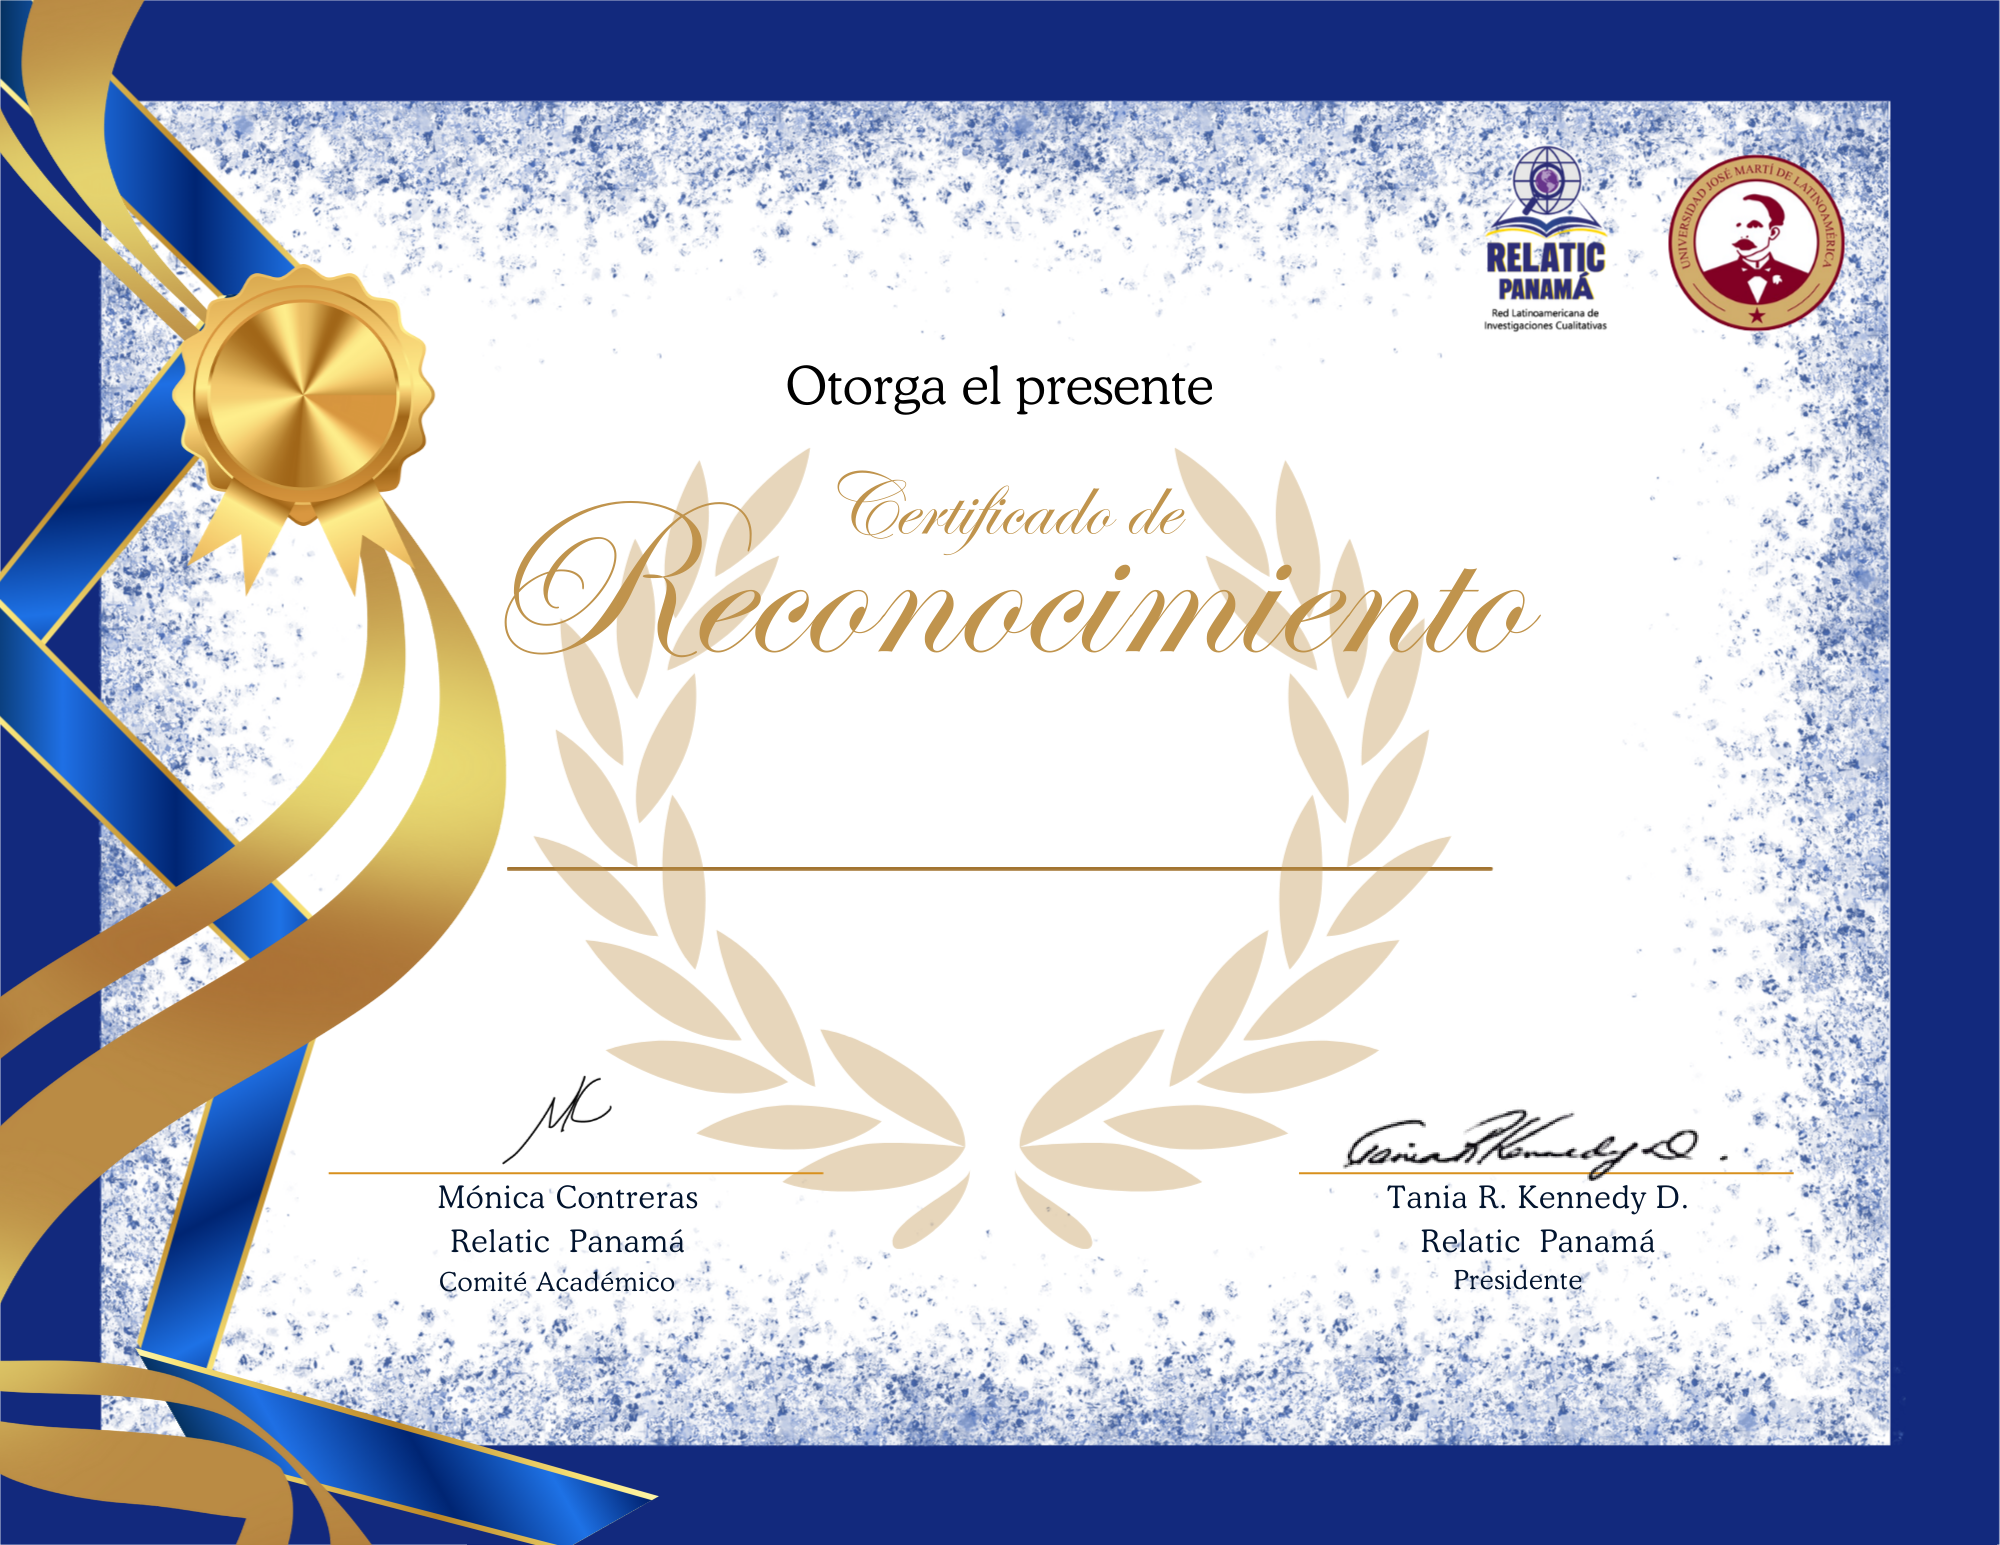
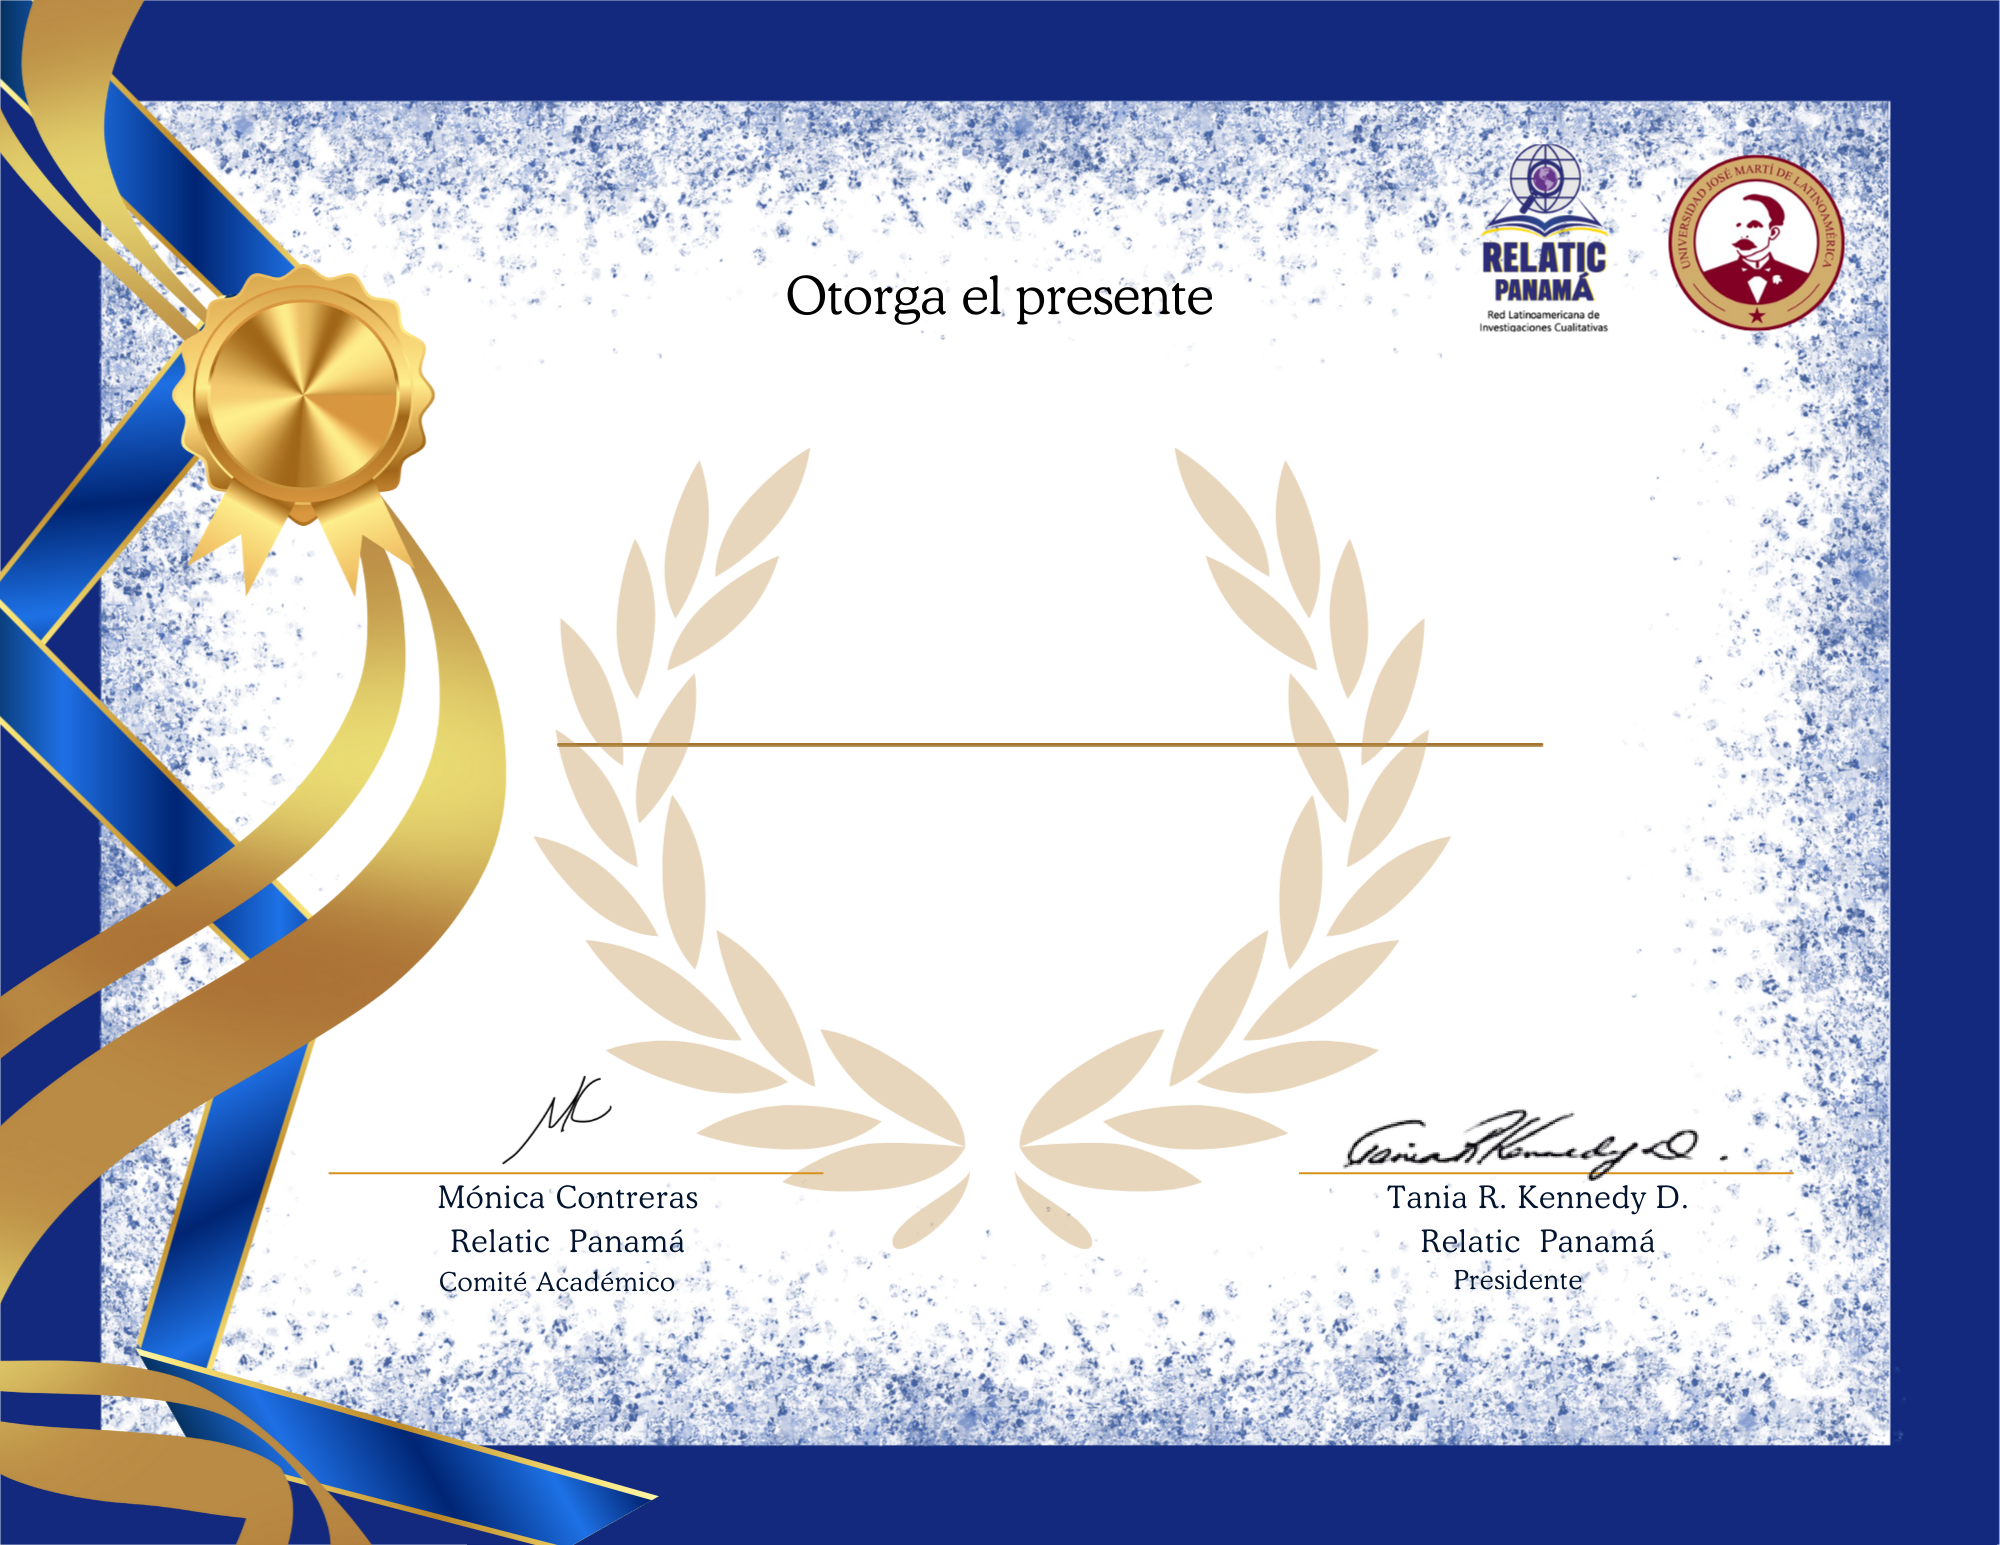
- 2025-09-03

diff --git a/src/components/GenerateCertificates.jsx b/src/components/GenerateCertificates.jsx
@@ -7,7 +7,8 @@ const GenerateCertificates = () => {
   const [formData, setFormData] = useState({
     nombre_estudiante: '',
     id_estudiante: '',
-    nombre_curso: '',
+    concepto: '',
+    tipo_documento: '',
     horas_academicas: '',
     creditos: '',
     fecha_inicio: '',
@@ -19,47 +20,70 @@ const GenerateCertificates = () => {
   const [submitStatus, setSubmitStatus] = useState(null);
   const certificateRef = useRef(null);
 
-  // ✅ Posiciones con fuentes responsivas
+  // ✅ Posiciones de texto ajustadas para una mejor legibilidad y orden
   const textPositions = {
+    // La primera frase completa ahora se compone de dos partes
+    tipo_documento: {
+      top: '32%',
+      left: '50%',
+      transform: 'translateX(-50%)',
+      fontSize: 'clamp(0.9rem, 1.8vw, 1.3rem)',
+      color: '#4a5568',
+      fontWeight: '500'
+    },
+    // El nombre del estudiante ahora tiene más énfasis visual
     nombre_estudiante: { 
-      top: '42%', 
+      top: '36%', 
       left: '50%', 
       transform: 'translateX(-50%)', 
-      fontSize: 'clamp(1rem, 2.5vw, 2rem)', 
+      fontSize: 'clamp(1.2rem, 3vw, 2.5rem)', 
       fontWeight: 'bold', 
       color: '#1a365d' 
     },
+    // ID del estudiante
     id_estudiante: { 
-      top: '50%', 
+      top: '44%', // Ajustado para seguir al nombre y evitar la linea
       left: '50%', 
       transform: 'translateX(-50%)', 
       fontSize: 'clamp(0.8rem, 1.5vw, 1.1rem)', 
       color: '#4a5568' 
     },
-    nombre_curso: { 
-      top: '58%', 
+    // Etiqueta del concepto
+    concepto_label: {
+      top: '52%', // Ajustado
+      left: '50%',
+      transform: 'translateX(-50%)',
+      fontSize: 'clamp(0.9rem, 1.8vw, 1.3rem)',
+      color: '#4a5568',
+      fontWeight: '500'
+    },
+    // Valor del concepto, con más peso visual
+    concepto_value: { 
+      top: '57%', // Ajustado
       left: '50%', 
       transform: 'translateX(-50%)', 
-      fontSize: 'clamp(1rem, 2vw, 1.4rem)', 
+      fontSize: 'clamp(1rem, 2.2vw, 1.6rem)', // Tamaño un poco más grande
       fontWeight: '600', 
       color: '#2d3748' 
     },
+    // Horas académicas y créditos
     horas_creditos: { 
-      top: '63%', 
+      top: '65%', // Ajustado
       left: '50%', 
       transform: 'translateX(-50%)', 
       fontSize: 'clamp(0.8rem, 1.5vw, 1.1rem)', 
       color: '#4a5568' 
     },
+    // Fechas
     fecha_inicio_fin: { 
-      top: '68%', 
+      top: '70%', // Ajustado
       left: '50%', 
       transform: 'translateX(-50%)', 
       fontSize: 'clamp(0.7rem, 1.2vw, 1rem)', 
       color: '#4a5568' 
     },
     fecha_emision: { 
-      top: '78%', 
+      top: '80%', // Ajustado
       left: '50%', 
       transform: 'translateX(-50%)', 
       fontSize: 'clamp(0.6rem, 1vw, 0.9rem)', 
@@ -103,7 +127,8 @@ const GenerateCertificates = () => {
     setFormData({
       nombre_estudiante: '',
       id_estudiante: '',
-      nombre_curso: '',
+      concepto: '',
+      tipo_documento: '',
       horas_academicas: '',
       creditos: '',
       fecha_inicio: '',
@@ -115,26 +140,24 @@ const GenerateCertificates = () => {
   };
 
   const downloadPDF = () => {
-  if (certificateRef.current) {
-    html2canvas(certificateRef.current, {
-      scale: 3, // mayor calidad
-      useCORS: true
-    }).then((canvas) => {
-      const imgData = canvas.toDataURL('image/png');
+    if (certificateRef.current) {
+      html2canvas(certificateRef.current, {
+        scale: 3,
+        useCORS: true
+      }).then((canvas) => {
+        const imgData = canvas.toDataURL('image/png');
 
-      // PDF del mismo tamaño que el certificado
-      const pdf = new jsPDF({
-        orientation: 'landscape',
-        unit: 'px',
-        format: [canvas.width, canvas.height]
+        const pdf = new jsPDF({
+          orientation: 'landscape',
+          unit: 'px',
+          format: [canvas.width, canvas.height]
+        });
+
+        pdf.addImage(imgData, 'PNG', 0, 0, canvas.width, canvas.height);
+        pdf.save(`certificado_${formData.nombre_estudiante}.pdf`);
       });
-
-      pdf.addImage(imgData, 'PNG', 0, 0, canvas.width, canvas.height);
-      pdf.save(`certificado_${formData.nombre_estudiante}.pdf`);
-    });
-  }
-};
-
+    }
+  };
 
   return (
     <div className="min-h-screen bg-blue-50 py-6 px-4 sm:px-6 lg:px-8">
@@ -157,11 +180,11 @@ const GenerateCertificates = () => {
         {!preview ? (
           <form onSubmit={handleSubmit} className="space-y-6">
             <div className="grid grid-cols-1 md:grid-cols-2 gap-6">
-              {/* Inputs iguales que antes */}
               {[
+                { label: 'Tipo de Documento', name: 'tipo_documento', type: 'text' },
                 { label: 'Nombre completo', name: 'nombre_estudiante', type: 'text' },
                 { label: 'Número de ID', name: 'id_estudiante', type: 'text' },
-                { label: 'Nombre del Curso', name: 'nombre_curso', type: 'text' },
+                { label: 'Concepto', name: 'concepto', type: 'text' },
                 { label: 'Horas Académicas', name: 'horas_academicas', type: 'number' },
                 { label: 'Créditos', name: 'creditos', type: 'number' },
                 { label: 'Fecha de Inicio', name: 'fecha_inicio', type: 'date' },
@@ -178,7 +201,7 @@ const GenerateCertificates = () => {
                     value={formData[field.name]}
                     onChange={handleChange}
                     className="w-full px-4 py-2 border border-slate-300 rounded-lg focus:ring-blue-500 focus:border-blue-500 transition-colors"
-                    required
+                    required={field.name !== 'creditos' && field.name !== 'tipo_documento'}
                   />
                 </div>
               ))}
@@ -203,7 +226,7 @@ const GenerateCertificates = () => {
           </form>
         ) : (
           <div className="space-y-6">
-            {/* ✅ Contenedor flexible del certificado */}
+            {/* Contenedor del certificado */}
             <div 
               ref={certificateRef} 
               className="relative mx-auto w-full max-w-4xl aspect-[4/3]"
@@ -214,32 +237,36 @@ const GenerateCertificates = () => {
                 className="absolute inset-0 w-full h-full object-contain"
               />
               
+              {/* ✅ Elementos con estilos y posiciones mejorados */}
+              <div className="absolute w-full px-[5%] text-center" style={textPositions.tipo_documento}>
+                {formData.tipo_documento} por haber culminado satisfactoriamente los requisitos a: 
+              </div>
               <div className="absolute w-full text-center" style={textPositions.nombre_estudiante}>
                 {formData.nombre_estudiante}
               </div>
-
               <div className="absolute w-full text-center" style={textPositions.id_estudiante}>
-                ID# {formData.id_estudiante}
+                ID: {formData.id_estudiante}
               </div>
-
-              <div className="absolute w-full px-[5%] text-center" style={textPositions.nombre_curso}>
-                {formData.nombre_curso}
+              <div className="absolute w-full px-[5%] text-center" style={textPositions.concepto_label}>
+                En concepto de
+              </div>
+              <div className="absolute w-full px-[5%] text-center" style={textPositions.concepto_value}>
+                {formData.concepto}
               </div>
 
               <div className="absolute w-full px-[8%] text-center" style={textPositions.horas_creditos}>
-                con una duración total de {formData.horas_academicas} horas académicas, equivalente a {formData.creditos} créditos.
+                Con una duración total de {formData.horas_academicas} horas académicas
+                {formData.creditos && ` , equivalente a ${formData.creditos} créditos.`}
               </div>
-
               <div className="absolute w-full text-center" style={textPositions.fecha_inicio_fin}>
-                {new Date(formData.fecha_inicio).toLocaleDateString()} - {new Date(formData.fecha_fin).toLocaleDateString()}
+                De {new Date(formData.fecha_inicio).toLocaleDateString()} hasta {new Date(formData.fecha_fin).toLocaleDateString()}
               </div>
-
               <div className="absolute w-full text-center" style={textPositions.fecha_emision}>
                 Emitido el: {new Date(formData.fecha_emision).toLocaleDateString()}
               </div>
             </div>
             
-            {/* ✅ Botones responsivos */}
+            {/* Botones responsivos */}
             <div className="flex flex-col sm:flex-row justify-between gap-4">
               <button
                 onClick={() => setPreview(false)}

diff --git a/dist/index.html b/dist/index.html
@@ -11,7 +11,7 @@
 
     <link rel="icon" href="/logo.png" />
     
-    <script type="module" crossorigin src="/assets/index-DxyPnGls.js"></script>
+    <script type="module" crossorigin src="/assets/index-CajVk_fb.js"></script>
     <link rel="modulepreload" crossorigin href="/assets/Agreements-CrAgxh8U.js">
     <link rel="modulepreload" crossorigin href="/assets/vendor_react-DN9gRBu7.js">
     <link rel="stylesheet" crossorigin href="/assets/Agreements-DvB2Xm2x.css">
